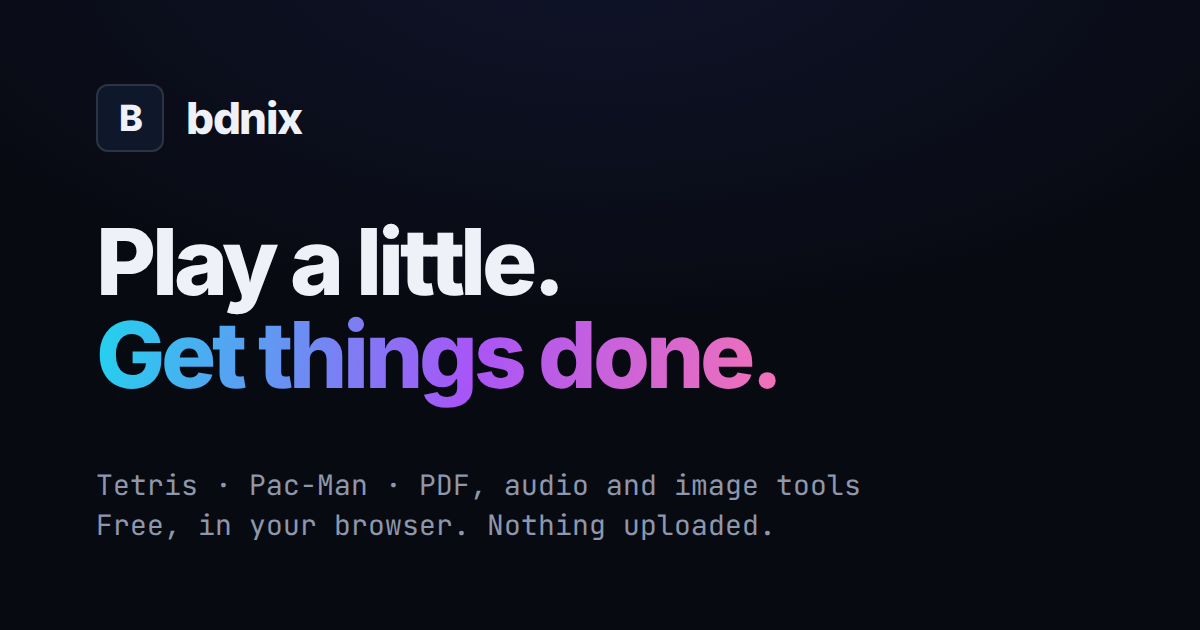
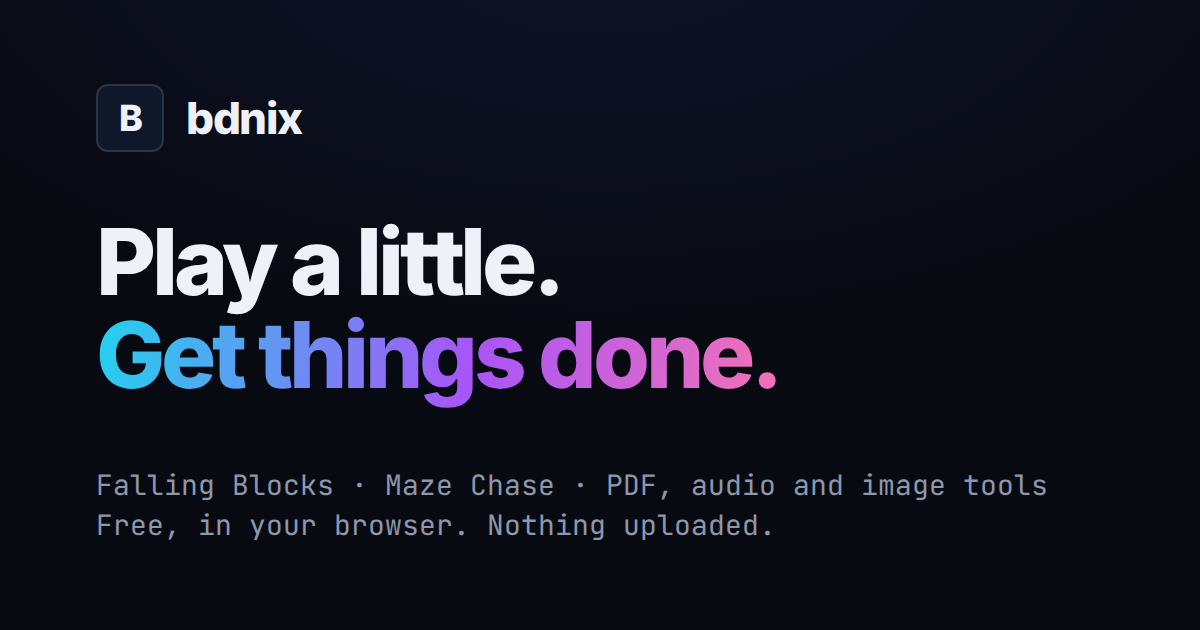
Add MIT licence and rename the games away from trademarked names
The repo had no licence, so it was all rights reserved. Add an MIT
LICENSE (copyright bdnix), the licence field in package.json and a
Licence section in the README.

Tetris, Pac-Man and Flappy Bird are trademarks of other companies, so
the games are now Falling Blocks (/falling-blocks/), Maze Chase
(/maze-chase/) and Flap (/flap/) everywhere a visitor sees them:
titles, headings, URLs, SEO tags, sitemap, profile, share image and
docs. Internal file names, save ids and storage keys keep the old
identifiers so visitors' scores and saved games carry over. A new UI
test checks that no page uses the old names, and AGENTS.md records
the rule.

Claude-Session: https://claude.ai/code/session_01Dh9v5ZPLVQ2Nw1SXsYiPqb

Changed region(s): [[0.0617, 0.754, 0.8942, 0.7841]]

diff --git a/index.html b/index.html
@@ -4,19 +4,19 @@
   <meta charset="utf-8">
   <meta name="viewport" content="width=device-width,initial-scale=1,viewport-fit=cover">
   <title>bdnix — Free browser games and PDF, audio and image tools</title>
-  <meta name="description" content="Play Tetris, Pac-Man and Flappy Bird, merge, watermark and redact PDFs, turn videos into MP3s, or compress images, right in your browser. Nothing to install and nothing uploaded.">
+  <meta name="description" content="Play Falling Blocks, Maze Chase and Flap, merge, watermark and redact PDFs, turn videos into MP3s, or compress images, right in your browser. Nothing to install and nothing uploaded.">
   <link rel="canonical" href="https://www.bdnix.com/">
   <meta property="og:site_name" content="bdnix">
   <meta property="og:type" content="website">
   <meta property="og:url" content="https://www.bdnix.com/">
   <meta property="og:title" content="bdnix — Free browser games and PDF, audio and image tools">
-  <meta property="og:description" content="Play Tetris, Pac-Man and Flappy Bird, merge, watermark and redact PDFs, turn videos into MP3s, or compress images, right in your browser. Nothing to install and nothing uploaded.">
+  <meta property="og:description" content="Play Falling Blocks, Maze Chase and Flap, merge, watermark and redact PDFs, turn videos into MP3s, or compress images, right in your browser. Nothing to install and nothing uploaded.">
   <meta property="og:image" content="https://www.bdnix.com/assets/img/og.png">
   <meta property="og:image:width" content="1200">
   <meta property="og:image:height" content="630">
   <meta property="og:image:alt" content="bdnix: Play a little. Get things done.">
   <meta name="twitter:card" content="summary_large_image">
-  <script type="application/ld+json">{"@context": "https://schema.org", "@type": "WebSite", "name": "bdnix", "url": "https://www.bdnix.com/", "description": "Play Tetris, Pac-Man and Flappy Bird, merge, watermark and redact PDFs, turn videos into MP3s, or compress images, right in your browser. Nothing to install and nothing uploaded."}</script>
+  <script type="application/ld+json">{"@context": "https://schema.org", "@type": "WebSite", "name": "bdnix", "url": "https://www.bdnix.com/", "description": "Play Falling Blocks, Maze Chase and Flap, merge, watermark and redact PDFs, turn videos into MP3s, or compress images, right in your browser. Nothing to install and nothing uploaded."}</script>
   <link rel="preconnect" href="https://fonts.googleapis.com">
   <link rel="preconnect" href="https://fonts.gstatic.com" crossorigin>
   <link href="https://fonts.googleapis.com/css2?family=Inter:wght@400;600;800&family=JetBrains+Mono:wght@400;600&display=swap" rel="stylesheet">
@@ -39,12 +39,12 @@
     <p class="kicker">// games &amp; tools, right in your browser</p>
     <h1>Play a little.<br><em>Get things done.</em></h1>
 
-    <p class="terminal" aria-live="polite"><span class="prompt">$</span> <span id="typed">play a round of tetris.</span><span class="cursor"></span></p>
+    <p class="terminal" aria-live="polite"><span class="prompt">$</span> <span id="typed">play a round of falling blocks.</span><span class="cursor"></span></p>
 
     <section class="games" aria-labelledby="games-label">
       <p class="label" id="games-label">Games</p>
       <div class="game-cards">
-        <a class="game-card panel" href="/tetris/">
+        <a class="game-card panel" href="/falling-blocks/">
           <svg class="gc-icon" viewBox="0 0 40 40" aria-hidden="true">
             <rect x="4" y="18" width="10" height="10" rx="2" fill="#a855f7"/>
             <rect x="15" y="18" width="10" height="10" rx="2" fill="#a855f7"/>
@@ -54,19 +54,19 @@
             <rect x="15" y="29" width="10" height="10" rx="2" fill="#22d3ee" opacity=".55"/>
             <rect x="26" y="29" width="10" height="10" rx="2" fill="#22d3ee" opacity=".55"/>
           </svg>
-          <span class="gc-text"><b>Tetris</b><span>Stack blocks, clear lines</span></span>
+          <span class="gc-text"><b>Falling Blocks</b><span>Stack blocks, clear lines</span></span>
           <svg class="gc-arrow" viewBox="0 0 16 16" aria-hidden="true"><path d="M6 3l5 5-5 5" fill="none" stroke="currentColor" stroke-width="1.8" stroke-linecap="round" stroke-linejoin="round"/></svg>
         </a>
-        <a class="game-card panel" href="/pacman/">
+        <a class="game-card panel" href="/maze-chase/">
           <svg class="gc-icon" viewBox="0 0 40 40" aria-hidden="true">
             <path d="M14 20 L24.4 14 A12 12 0 1 0 24.4 26 Z" fill="#facc15"/>
             <circle cx="29" cy="20" r="2" fill="#eef1f8" opacity=".8"/>
             <circle cx="36" cy="20" r="2" fill="#eef1f8" opacity=".8"/>
           </svg>
-          <span class="gc-text"><b>Pac-Man</b><span>Eat dots, dodge ghosts</span></span>
+          <span class="gc-text"><b>Maze Chase</b><span>Eat dots, dodge ghosts</span></span>
           <svg class="gc-arrow" viewBox="0 0 16 16" aria-hidden="true"><path d="M6 3l5 5-5 5" fill="none" stroke="currentColor" stroke-width="1.8" stroke-linecap="round" stroke-linejoin="round"/></svg>
         </a>
-        <a class="game-card panel" href="/flappy-bird/">
+        <a class="game-card panel" href="/flap/">
           <svg class="gc-icon" viewBox="0 0 40 40" aria-hidden="true">
             <rect x="27" y="2" width="9" height="11" rx="1.5" fill="#22d3ee" opacity=".55"/>
             <rect x="27" y="27" width="9" height="11" rx="1.5" fill="#22d3ee" opacity=".55"/>
@@ -75,7 +75,7 @@
             <circle cx="17.5" cy="17" r="2.6" fill="#fff"/>
             <path d="M21 20l6 2-6 2z" fill="#fb923c"/>
           </svg>
-          <span class="gc-text"><b>Flappy Bird</b><span>Flap through the pipes</span></span>
+          <span class="gc-text"><b>Flap</b><span>Flap through the pipes</span></span>
           <svg class="gc-arrow" viewBox="0 0 16 16" aria-hidden="true"><path d="M6 3l5 5-5 5" fill="none" stroke="currentColor" stroke-width="1.8" stroke-linecap="round" stroke-linejoin="round"/></svg>
         </a>
       </div>
@@ -156,7 +156,7 @@
   </footer>
 
   <script src="/assets/js/blocks.js?v=65771b7dfd"></script>
-  <script src="/assets/js/profile.js?v=42c33a04c1"></script>
-  <script src="/assets/js/main.js?v=e6dcc27be7"></script>
+  <script src="/assets/js/profile.js?v=7e267fb241"></script>
+  <script src="/assets/js/main.js?v=72c40edfab"></script>
 </body>
 </html>

diff --git a/flap/index.html b/flap/index.html
@@ -3,26 +3,26 @@
 <head>
   <meta charset="utf-8">
   <meta name="viewport" content="width=device-width,initial-scale=1,viewport-fit=cover">
-  <title>Flappy Bird — Play free in your browser | bdnix</title>
-  <meta name="description" content="Play Flappy Bird free in your browser: tap, click or press Space to flap through the gaps between the pipes. Earn medals and beat your best score. Nothing to install.">
-  <link rel="canonical" href="https://www.bdnix.com/flappy-bird/">
+  <title>Flap — Play free in your browser | bdnix</title>
+  <meta name="description" content="Play Flap free in your browser: tap, click or press Space to flap through the gaps between the pipes. Earn medals and beat your best score. Nothing to install.">
+  <link rel="canonical" href="https://www.bdnix.com/flap/">
   <meta property="og:site_name" content="bdnix">
   <meta property="og:type" content="website">
-  <meta property="og:url" content="https://www.bdnix.com/flappy-bird/">
-  <meta property="og:title" content="Flappy Bird — Play free in your browser | bdnix">
-  <meta property="og:description" content="Play Flappy Bird free in your browser: tap, click or press Space to flap through the gaps between the pipes. Earn medals and beat your best score. Nothing to install.">
+  <meta property="og:url" content="https://www.bdnix.com/flap/">
+  <meta property="og:title" content="Flap — Play free in your browser | bdnix">
+  <meta property="og:description" content="Play Flap free in your browser: tap, click or press Space to flap through the gaps between the pipes. Earn medals and beat your best score. Nothing to install.">
   <meta property="og:image" content="https://www.bdnix.com/assets/img/og.png">
   <meta property="og:image:width" content="1200">
   <meta property="og:image:height" content="630">
   <meta property="og:image:alt" content="bdnix: Play a little. Get things done.">
   <meta name="twitter:card" content="summary_large_image">
-  <script type="application/ld+json">{"@context": "https://schema.org", "@type": "WebApplication", "name": "Flappy Bird", "url": "https://www.bdnix.com/flappy-bird/", "description": "Play Flappy Bird free in your browser: tap, click or press Space to flap through the gaps between the pipes. Earn medals and beat your best score. Nothing to install.", "applicationCategory": "GameApplication", "operatingSystem": "Any", "browserRequirements": "Requires JavaScript", "isAccessibleForFree": true, "offers": {"@type": "Offer", "price": "0", "priceCurrency": "USD"}}</script>
+  <script type="application/ld+json">{"@context": "https://schema.org", "@type": "WebApplication", "name": "Flap", "url": "https://www.bdnix.com/flap/", "description": "Play Flap free in your browser: tap, click or press Space to flap through the gaps between the pipes. Earn medals and beat your best score. Nothing to install.", "applicationCategory": "GameApplication", "operatingSystem": "Any", "browserRequirements": "Requires JavaScript", "isAccessibleForFree": true, "offers": {"@type": "Offer", "price": "0", "priceCurrency": "USD"}}</script>
   <link rel="preconnect" href="https://fonts.googleapis.com">
   <link rel="preconnect" href="https://fonts.gstatic.com" crossorigin>
   <link href="https://fonts.googleapis.com/css2?family=Inter:wght@400;600;800&family=JetBrains+Mono:wght@400;600&display=swap" rel="stylesheet">
   <link rel="stylesheet" href="/assets/css/base.css?v=f674399bef">
   <link rel="stylesheet" href="/assets/css/game.css?v=bde9b722f7">
-  <link rel="stylesheet" href="/assets/css/flappy.css?v=869916c46e">
+  <link rel="stylesheet" href="/assets/css/flappy.css?v=adb01402ed">
   <script src="/assets/js/analytics.js?v=2f33b9c99e"></script>
   <link rel="icon" href="/assets/img/favicon.svg" type="image/svg+xml">
   <link rel="apple-touch-icon" href="/assets/img/apple-touch-icon.png">
@@ -32,7 +32,7 @@
   <canvas id="bg" data-alpha="0.12" aria-hidden="true"></canvas>
 
   <header class="bar">
-    <a class="wordmark" href="/" aria-label="Back to bdnix"><b>bdnix</b><span>/ flappy bird</span></a>
+    <a class="wordmark" href="/" aria-label="Back to bdnix"><b>bdnix</b><span>/ flap</span></a>
     <button id="pauseBtn" class="icon-btn" aria-label="Pause">
       <svg viewBox="0 0 16 16" aria-hidden="true"><path fill="currentColor" d="M4 2h3v12H4zM9 2h3v12H9z"/></svg>
     </button>
@@ -45,10 +45,10 @@
     </section>
 
     <div class="board-wrap">
-      <canvas id="board" aria-label="Flappy Bird board"></canvas>
+      <canvas id="board" aria-label="Flap board"></canvas>
       <div id="overlay" class="overlay">
         <p class="label" id="ovKicker">bdnix arcade</p>
-        <h1 id="ovTitle">Flappy Bird</h1>
+        <h1 id="ovTitle">Flap</h1>
         <p id="ovText">Flap through the gaps. Don’t touch the pipes.</p>
         <div class="ov-actions">
           <button id="startBtn" class="btn btn-primary">Start game</button>
@@ -62,7 +62,7 @@
 
   <script src="/assets/js/blocks.js?v=65771b7dfd"></script>
   <script src="/assets/js/gamesave.js?v=fb243d7a1b"></script>
-  <script src="/assets/js/flappy-core.js?v=960521bef0"></script>
+  <script src="/assets/js/flappy-core.js?v=340ba24352"></script>
   <script src="/assets/js/flappy.js?v=54077dbeb6"></script>
 </body>
 </html>

diff --git a/maze-chase/index.html b/maze-chase/index.html
@@ -3,26 +3,26 @@
 <head>
   <meta charset="utf-8">
   <meta name="viewport" content="width=device-width,initial-scale=1,viewport-fit=cover">
-  <title>Pac-Man — Play free in your browser | bdnix</title>
-  <meta name="description" content="Play Pac-Man free in your browser, with the keyboard, or with swipes and touch buttons on a phone. Eat every dot, dodge the ghosts and beat your best score. Nothing to install.">
-  <link rel="canonical" href="https://www.bdnix.com/pacman/">
+  <title>Maze Chase — Play free in your browser | bdnix</title>
+  <meta name="description" content="Play Maze Chase free in your browser, with the keyboard, or with swipes and touch buttons on a phone. Eat every dot, dodge the ghosts and beat your best score. Nothing to install.">
+  <link rel="canonical" href="https://www.bdnix.com/maze-chase/">
   <meta property="og:site_name" content="bdnix">
   <meta property="og:type" content="website">
-  <meta property="og:url" content="https://www.bdnix.com/pacman/">
-  <meta property="og:title" content="Pac-Man — Play free in your browser | bdnix">
-  <meta property="og:description" content="Play Pac-Man free in your browser, with the keyboard, or with swipes and touch buttons on a phone. Eat every dot, dodge the ghosts and beat your best score. Nothing to install.">
+  <meta property="og:url" content="https://www.bdnix.com/maze-chase/">
+  <meta property="og:title" content="Maze Chase — Play free in your browser | bdnix">
+  <meta property="og:description" content="Play Maze Chase free in your browser, with the keyboard, or with swipes and touch buttons on a phone. Eat every dot, dodge the ghosts and beat your best score. Nothing to install.">
   <meta property="og:image" content="https://www.bdnix.com/assets/img/og.png">
   <meta property="og:image:width" content="1200">
   <meta property="og:image:height" content="630">
   <meta property="og:image:alt" content="bdnix: Play a little. Get things done.">
   <meta name="twitter:card" content="summary_large_image">
-  <script type="application/ld+json">{"@context": "https://schema.org", "@type": "WebApplication", "name": "Pac-Man", "url": "https://www.bdnix.com/pacman/", "description": "Play Pac-Man free in your browser, with the keyboard, or with swipes and touch buttons on a phone. Eat every dot, dodge the ghosts and beat your best score. Nothing to install.", "applicationCategory": "GameApplication", "operatingSystem": "Any", "browserRequirements": "Requires JavaScript", "isAccessibleForFree": true, "offers": {"@type": "Offer", "price": "0", "priceCurrency": "USD"}}</script>
+  <script type="application/ld+json">{"@context": "https://schema.org", "@type": "WebApplication", "name": "Maze Chase", "url": "https://www.bdnix.com/maze-chase/", "description": "Play Maze Chase free in your browser, with the keyboard, or with swipes and touch buttons on a phone. Eat every dot, dodge the ghosts and beat your best score. Nothing to install.", "applicationCategory": "GameApplication", "operatingSystem": "Any", "browserRequirements": "Requires JavaScript", "isAccessibleForFree": true, "offers": {"@type": "Offer", "price": "0", "priceCurrency": "USD"}}</script>
   <link rel="preconnect" href="https://fonts.googleapis.com">
   <link rel="preconnect" href="https://fonts.gstatic.com" crossorigin>
   <link href="https://fonts.googleapis.com/css2?family=Inter:wght@400;600;800&family=JetBrains+Mono:wght@400;600&display=swap" rel="stylesheet">
   <link rel="stylesheet" href="/assets/css/base.css?v=f674399bef">
   <link rel="stylesheet" href="/assets/css/game.css?v=bde9b722f7">
-  <link rel="stylesheet" href="/assets/css/pacman.css?v=b1bd4b13df">
+  <link rel="stylesheet" href="/assets/css/pacman.css?v=f2de2ef699">
   <script src="/assets/js/analytics.js?v=2f33b9c99e"></script>
   <link rel="icon" href="/assets/img/favicon.svg" type="image/svg+xml">
   <link rel="apple-touch-icon" href="/assets/img/apple-touch-icon.png">
@@ -32,7 +32,7 @@
   <canvas id="bg" data-alpha="0.12" aria-hidden="true"></canvas>
 
   <header class="bar">
-    <a class="wordmark" href="/" aria-label="Back to bdnix"><b>bdnix</b><span>/ pac-man</span></a>
+    <a class="wordmark" href="/" aria-label="Back to bdnix"><b>bdnix</b><span>/ maze chase</span></a>
     <button id="pauseBtn" class="icon-btn" aria-label="Pause">
       <svg viewBox="0 0 16 16" aria-hidden="true"><path fill="currentColor" d="M4 2h3v12H4zM9 2h3v12H9z"/></svg>
     </button>
@@ -50,7 +50,7 @@
       <canvas id="board"></canvas>
       <div id="overlay" class="overlay">
         <p class="label" id="ovKicker">bdnix arcade</p>
-        <h1 id="ovTitle">Pac-Man</h1>
+        <h1 id="ovTitle">Maze Chase</h1>
         <p id="ovText">Eat every dot. Dodge the ghosts.</p>
         <div class="ov-actions">
           <button id="startBtn" class="btn btn-primary">Start game</button>
@@ -71,6 +71,6 @@
 
   <script src="/assets/js/blocks.js?v=65771b7dfd"></script>
   <script src="/assets/js/gamesave.js?v=fb243d7a1b"></script>
-  <script src="/assets/js/pacman.js?v=a88d1d344c"></script>
+  <script src="/assets/js/pacman.js?v=c7086d836f"></script>
 </body>
 </html>

diff --git a/falling-blocks/index.html b/falling-blocks/index.html
@@ -3,26 +3,26 @@
 <head>
   <meta charset="utf-8">
   <meta name="viewport" content="width=device-width,initial-scale=1,viewport-fit=cover">
-  <title>Tetris — Play free in your browser | bdnix</title>
-  <meta name="description" content="Play Tetris free in your browser, with the keyboard or with touch buttons on a phone. Hold a piece, hard drop, clear lines and beat your best score. Nothing to install.">
-  <link rel="canonical" href="https://www.bdnix.com/tetris/">
+  <title>Falling Blocks — Play free in your browser | bdnix</title>
+  <meta name="description" content="Play Falling Blocks free in your browser, with the keyboard or with touch buttons on a phone. Hold a piece, hard drop, clear lines and beat your best score. Nothing to install.">
+  <link rel="canonical" href="https://www.bdnix.com/falling-blocks/">
   <meta property="og:site_name" content="bdnix">
   <meta property="og:type" content="website">
-  <meta property="og:url" content="https://www.bdnix.com/tetris/">
-  <meta property="og:title" content="Tetris — Play free in your browser | bdnix">
-  <meta property="og:description" content="Play Tetris free in your browser, with the keyboard or with touch buttons on a phone. Hold a piece, hard drop, clear lines and beat your best score. Nothing to install.">
+  <meta property="og:url" content="https://www.bdnix.com/falling-blocks/">
+  <meta property="og:title" content="Falling Blocks — Play free in your browser | bdnix">
+  <meta property="og:description" content="Play Falling Blocks free in your browser, with the keyboard or with touch buttons on a phone. Hold a piece, hard drop, clear lines and beat your best score. Nothing to install.">
   <meta property="og:image" content="https://www.bdnix.com/assets/img/og.png">
   <meta property="og:image:width" content="1200">
   <meta property="og:image:height" content="630">
   <meta property="og:image:alt" content="bdnix: Play a little. Get things done.">
   <meta name="twitter:card" content="summary_large_image">
-  <script type="application/ld+json">{"@context": "https://schema.org", "@type": "WebApplication", "name": "Tetris", "url": "https://www.bdnix.com/tetris/", "description": "Play Tetris free in your browser, with the keyboard or with touch buttons on a phone. Hold a piece, hard drop, clear lines and beat your best score. Nothing to install.", "applicationCategory": "GameApplication", "operatingSystem": "Any", "browserRequirements": "Requires JavaScript", "isAccessibleForFree": true, "offers": {"@type": "Offer", "price": "0", "priceCurrency": "USD"}}</script>
+  <script type="application/ld+json">{"@context": "https://schema.org", "@type": "WebApplication", "name": "Falling Blocks", "url": "https://www.bdnix.com/falling-blocks/", "description": "Play Falling Blocks free in your browser, with the keyboard or with touch buttons on a phone. Hold a piece, hard drop, clear lines and beat your best score. Nothing to install.", "applicationCategory": "GameApplication", "operatingSystem": "Any", "browserRequirements": "Requires JavaScript", "isAccessibleForFree": true, "offers": {"@type": "Offer", "price": "0", "priceCurrency": "USD"}}</script>
   <link rel="preconnect" href="https://fonts.googleapis.com">
   <link rel="preconnect" href="https://fonts.gstatic.com" crossorigin>
   <link href="https://fonts.googleapis.com/css2?family=Inter:wght@400;600;800&family=JetBrains+Mono:wght@400;600&display=swap" rel="stylesheet">
   <link rel="stylesheet" href="/assets/css/base.css?v=f674399bef">
   <link rel="stylesheet" href="/assets/css/game.css?v=bde9b722f7">
-  <link rel="stylesheet" href="/assets/css/tetris.css?v=9070139a67">
+  <link rel="stylesheet" href="/assets/css/tetris.css?v=796c81051e">
   <script src="/assets/js/analytics.js?v=2f33b9c99e"></script>
   <link rel="icon" href="/assets/img/favicon.svg" type="image/svg+xml">
   <link rel="apple-touch-icon" href="/assets/img/apple-touch-icon.png">
@@ -32,7 +32,7 @@
   <canvas id="bg" data-alpha="0.12" aria-hidden="true"></canvas>
 
   <header class="bar">
-    <a class="wordmark" href="/" aria-label="Back to bdnix"><b>bdnix</b><span>/ tetris</span></a>
+    <a class="wordmark" href="/" aria-label="Back to bdnix"><b>bdnix</b><span>/ falling blocks</span></a>
     <button id="pauseBtn" class="icon-btn" aria-label="Pause">
       <svg viewBox="0 0 16 16" aria-hidden="true"><path fill="currentColor" d="M4 2h3v12H4zM9 2h3v12H9z"/></svg>
     </button>
@@ -60,7 +60,7 @@
       <canvas id="board"></canvas>
       <div id="overlay" class="overlay">
         <p class="label" id="ovKicker">bdnix arcade</p>
-        <h1 id="ovTitle">Tetris</h1>
+        <h1 id="ovTitle">Falling Blocks</h1>
         <p id="ovText">Clear lines. Don't hit the top.</p>
         <div class="ov-actions">
           <button id="startBtn" class="btn btn-primary">Start game</button>

diff --git a/assets/js/profile.js b/assets/js/profile.js
@@ -7,9 +7,9 @@
 
   // Keys written by the games (see tetris.js, pacman.js and flappy.js) and main.js.
   var GAMES = [
-    { id: 'tetris', name: 'Tetris', key: 'bdnix_tetris_best', href: '/tetris/' },
-    { id: 'pacman', name: 'Pac-Man', key: 'bdnix_pacman_best', href: '/pacman/' },
-    { id: 'flappy', name: 'Flappy Bird', key: 'bdnix_flappy_best', href: '/flappy-bird/' }
+    { id: 'tetris', name: 'Falling Blocks', key: 'bdnix_tetris_best', href: '/falling-blocks/' },
+    { id: 'pacman', name: 'Maze Chase', key: 'bdnix_pacman_best', href: '/maze-chase/' },
+    { id: 'flappy', name: 'Flap', key: 'bdnix_flappy_best', href: '/flap/' }
   ];
 
   function read(key){

diff --git a/assets/js/pacman.js b/assets/js/pacman.js
@@ -281,7 +281,7 @@
     var steps = Math.ceil(dt / (1 / 120));
     var h = dt / steps;
     for (var s = 0; s < steps && state === 'playing' && freeze <= 0; s++) {
-      // Pac-Man may reverse at any time, not only at tile centres.
+      // The player may reverse at any time, not only at tile centres.
       if (wanted && pac.dir && wanted.x === -pac.dir.x && wanted.y === -pac.dir.y) { pac.dir = wanted; pac.face = wanted; }
       if (!pac.dir) pacChoose(pac);
       advance(pac, pacSpeed() * h, pacChoose);

diff --git a/watermark-pdf/index.html b/watermark-pdf/index.html
@@ -195,7 +195,7 @@
   </footer>
 
   <script src="/assets/js/blocks.js?v=65771b7dfd"></script>
-  <script src="/assets/js/profile.js?v=42c33a04c1"></script>
+  <script src="/assets/js/profile.js?v=7e267fb241"></script>
   <script src="/assets/vendor/pdf-lib.min.js?v=1.17.1"></script>
   <script src="/assets/js/pdftools.js?v=ca90f587a4"></script>
   <script src="/assets/js/watermark-layout.js?v=a06c418e73"></script>

diff --git a/redact-pdf/index.html b/redact-pdf/index.html
@@ -120,7 +120,7 @@
   </footer>
 
   <script src="/assets/js/blocks.js?v=65771b7dfd"></script>
-  <script src="/assets/js/profile.js?v=42c33a04c1"></script>
+  <script src="/assets/js/profile.js?v=7e267fb241"></script>
   <script src="/assets/vendor/pdf-lib.min.js?v=1.17.1"></script>
   <script src="/assets/js/pdftools.js?v=ca90f587a4"></script>
   <script src="/assets/js/redact-core.js?v=f4252badf4"></script>

diff --git a/mp4-to-mp3/index.html b/mp4-to-mp3/index.html
@@ -105,7 +105,7 @@
   </footer>
 
   <script src="/assets/js/blocks.js?v=65771b7dfd"></script>
-  <script src="/assets/js/profile.js?v=42c33a04c1"></script>
+  <script src="/assets/js/profile.js?v=7e267fb241"></script>
   <script src="/assets/vendor/lame.min.js?v=1.2.1"></script>
   <script src="/assets/js/pdftools.js?v=ca90f587a4"></script>
   <script src="/assets/js/audio-core.js?v=11fbd584a4"></script>

diff --git a/compress-image/index.html b/compress-image/index.html
@@ -108,7 +108,7 @@
   </footer>
 
   <script src="/assets/js/blocks.js?v=65771b7dfd"></script>
-  <script src="/assets/js/profile.js?v=42c33a04c1"></script>
+  <script src="/assets/js/profile.js?v=7e267fb241"></script>
   <script src="/assets/js/pdftools.js?v=ca90f587a4"></script>
   <script src="/assets/js/image-core.js?v=0bf249e3d9"></script>
   <script src="/assets/js/image.js?v=8bdf8815dc"></script>

diff --git a/merge-pdf/index.html b/merge-pdf/index.html
@@ -76,7 +76,7 @@
   </footer>
 
   <script src="/assets/js/blocks.js?v=65771b7dfd"></script>
-  <script src="/assets/js/profile.js?v=42c33a04c1"></script>
+  <script src="/assets/js/profile.js?v=7e267fb241"></script>
   <script src="/assets/vendor/pdf-lib.min.js?v=1.17.1"></script>
   <script src="/assets/js/pdftools.js?v=ca90f587a4"></script>
   <script src="/assets/js/merge.js?v=e5eaeb07ad"></script>

diff --git a/assets/js/flappy-core.js b/assets/js/flappy-core.js
@@ -1,4 +1,4 @@
-// Flappy Bird rules: the bird, the pipes, collisions and scoring. No DOM, so
+// Flap rules: the bird, the pipes, collisions and scoring. No DOM, so
 // it can be unit tested; flappy.js draws the world and handles input.
 // Distances are in world units on a 288 x 512 board, times in seconds.
 (function(){
